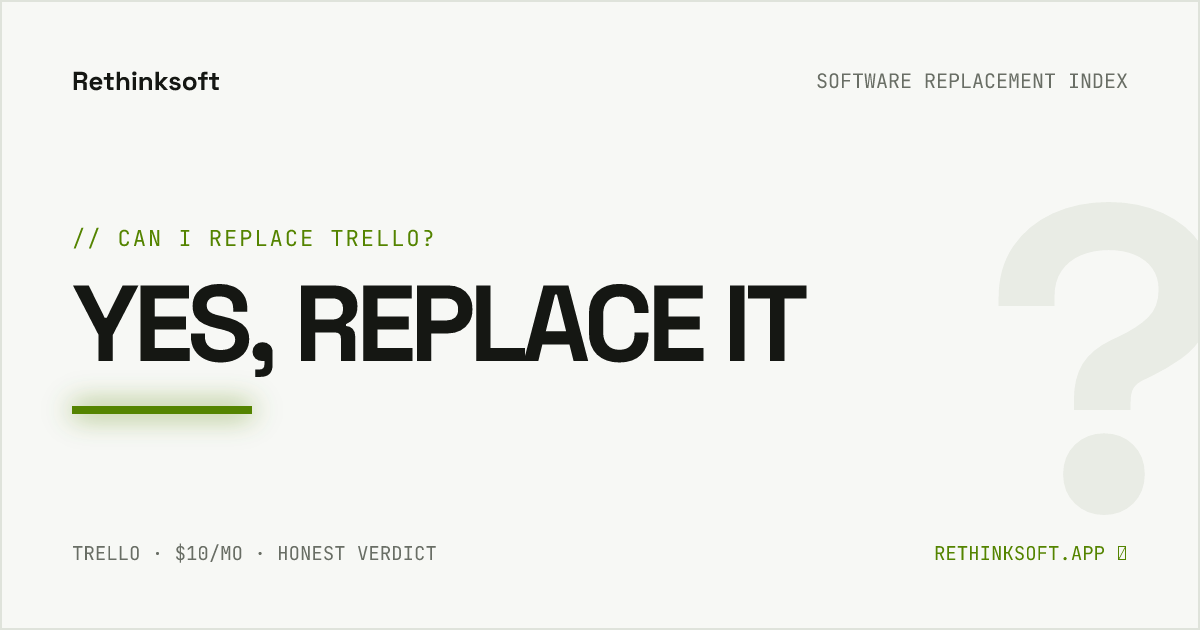
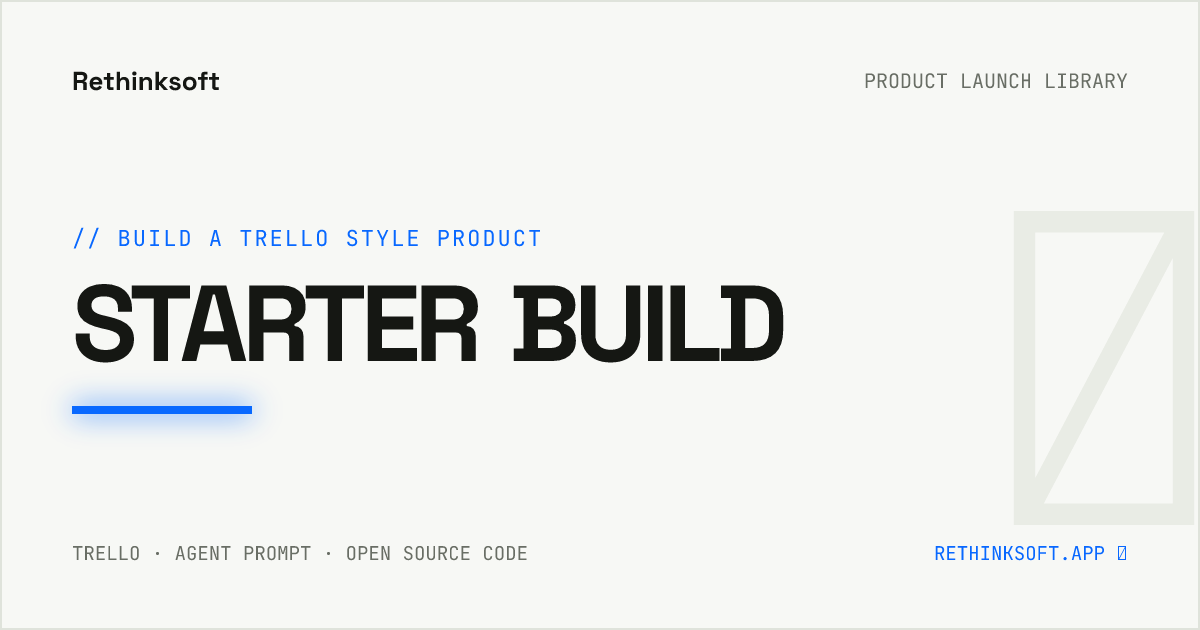
Reposition Rethinksoft as a product launch library

diff --git a/src/pages/api/vote/[slug].ts b/src/pages/api/vote/[slug].ts
@@ -10,5 +10,5 @@ export const POST: APIRoute = async ({ params, clientAddress, request }) => {
   const ip = forwarded || clientAddress || 'unknown';
   const hash = createHash('sha256').update(`${process.env.IP_HASH_SALT || 'civi-public-salt-v1'}:${ip}`).digest('hex');
   const result = addVote(slug, hash);
-  return Response.json({ ...result, message: result.added ? 'Your replacement has been counted.' : 'A vote from this network is already counted.' }, { status: result.added ? 201 : 200 });
+  return Response.json({ ...result, message: result.added ? 'Your build has been counted.' : 'A build from this network is already counted.' }, { status: result.added ? 201 : 200 });
 };

diff --git a/src/lib/apps.ts b/src/lib/apps.ts
@@ -36,7 +36,7 @@ export const categoryEmoji: Record<string, string> = {
 };
 
 export const verdictCopy = {
-  yes: { short: 'YES', label: 'Yes, absolutely', kicker: 'REPLACE IT' },
-  kinda: { short: 'KINDA', label: 'Kinda, with caveats', kicker: 'POSSIBLY' },
-  no: { short: 'NOT REALLY', label: 'Not really', kicker: 'KEEP PAYING' },
+  yes: { short: 'STARTER', label: 'Approachable starter build', kicker: 'BUILD NOW' },
+  kinda: { short: 'ADVANCED', label: 'Advanced product build', kicker: 'BUILD DEEP' },
+  no: { short: 'EXPERT', label: 'Expert level system', kicker: 'BUILD A NICHE' },
 } as const;

diff --git a/src/styles/global.css b/src/styles/global.css
@@ -30,3 +30,5 @@ body{position:relative;background:linear-gradient(180deg,#fff 0%,#fbfdff 32%,#ff
 @media(max-width:800px){.motion-ready .how-card:nth-child(2).is-in:hover{transform:translateY(-8px)}.detail-hero::after{display:none}}
 .eyebrow{gap:0}.eyebrow::before{display:none}
 .centered-head .eyebrow{width:100%;justify-content:center;text-align:center}
+.loss-list li::before{content:'↗';color:var(--lime)}
+.verdict-no{color:#006f61;background:#d9f8f1}.verdict-big.no{color:#00a889}

diff --git a/README.md b/README.md
@@ -1,6 +1,6 @@
 # Rethinksoft
 
-An independent, server-rendered directory for evaluating whether one strong build specification can replace a paid software subscription.
+A server-rendered product launch library with ready to use AI agent prompts and proven open source codebases for software founders and independent builders.
 
 ## Local development
 
